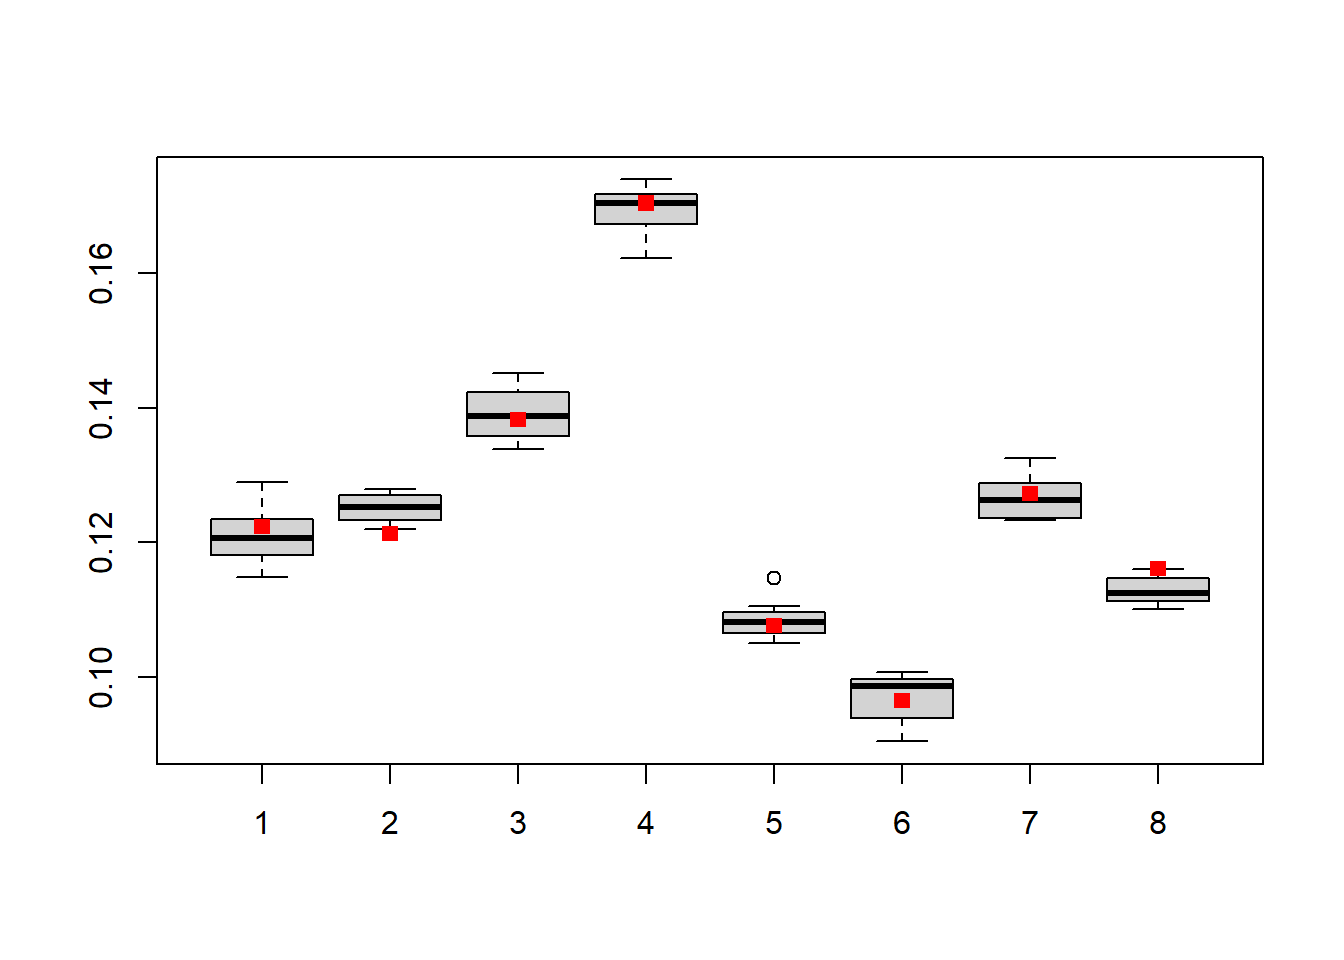
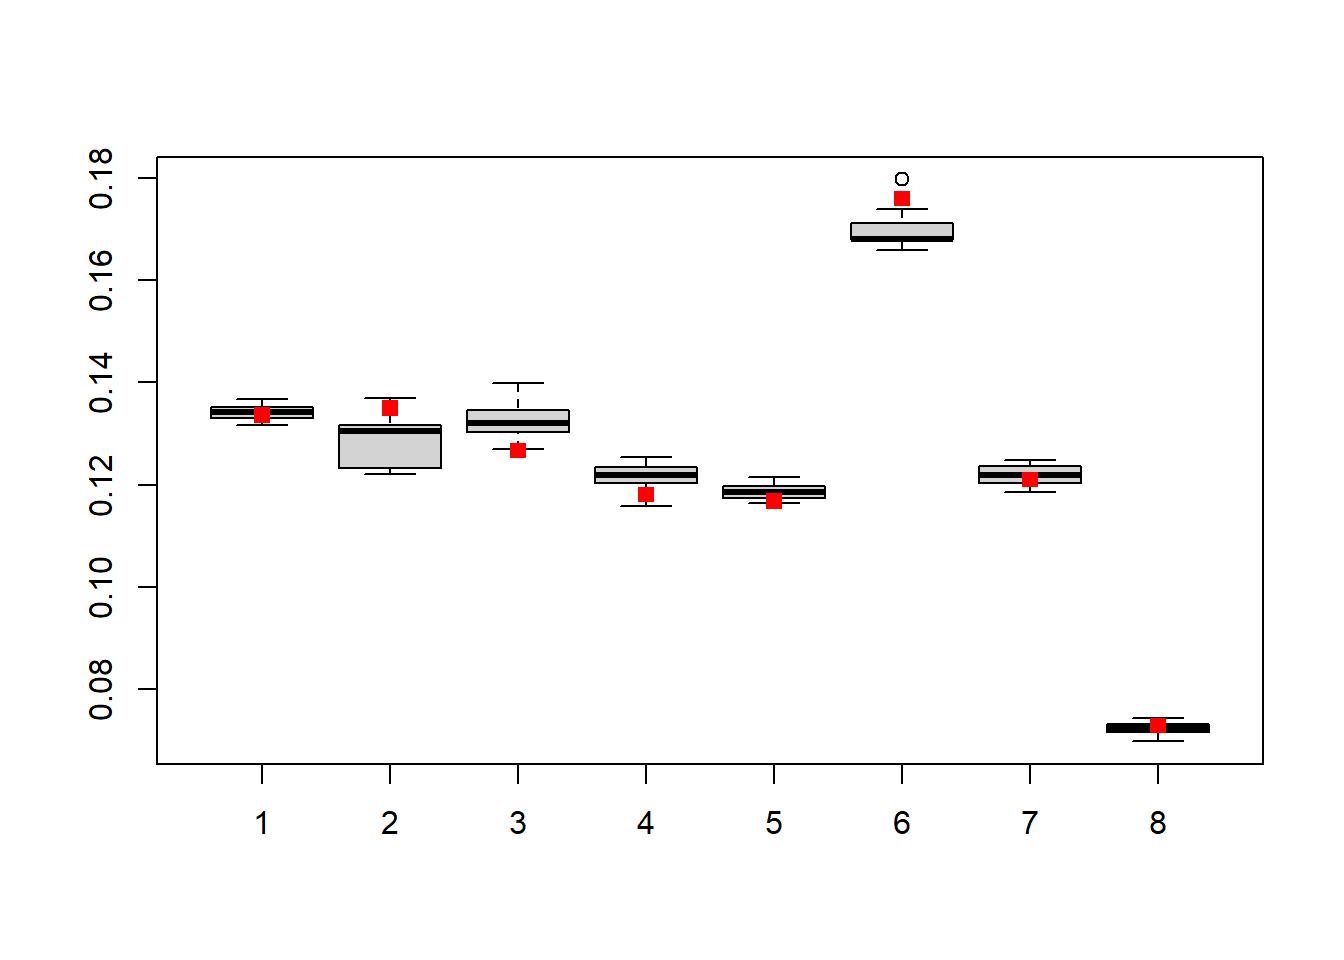
update post

diff --git a/docs/notes/2023-02-09-ST779-Computer-Assignment-1/index.html b/docs/notes/2023-02-09-ST779-Computer-Assignment-1/index.html
@@ -225,43 +225,18 @@ code span.wa { color: #60a0b0; font-weight: bold; font-style: italic; } /* Warni
 
 </header>
 
-<div class="cell">
-<details>
-<summary>Code</summary>
-<div class="sourceCode cell-code" id="cb1"><pre class="sourceCode r code-with-copy"><code class="sourceCode r"><span id="cb1-1"><a href="#cb1-1" aria-hidden="true" tabindex="-1"></a><span class="fu">library</span>(expm)</span></code><button title="Copy to Clipboard" class="code-copy-button"><i class="bi"></i></button></pre></div>
-</details>
-<div class="cell-output cell-output-stderr">
-<pre><code>Loading required package: Matrix</code></pre>
-</div>
-<div class="cell-output cell-output-stderr">
-<pre><code>
-Attaching package: 'expm'</code></pre>
-</div>
-<div class="cell-output cell-output-stderr">
-<pre><code>The following object is masked from 'package:Matrix':
-
-    expm</code></pre>
-</div>
-<details>
-<summary>Code</summary>
-<div class="sourceCode cell-code" id="cb5"><pre class="sourceCode r code-with-copy"><code class="sourceCode r"><span id="cb5-1"><a href="#cb5-1" aria-hidden="true" tabindex="-1"></a><span class="fu">library</span>(MASS)</span></code><button title="Copy to Clipboard" class="code-copy-button"><i class="bi"></i></button></pre></div>
-</details>
-</div>
 <section id="step-1" class="level2">
 <h2 class="anchored" data-anchor-id="step-1">Step 1</h2>
 <p>Create a vector of transition probabilities from a single state.</p>
 <div class="cell">
-<details>
-<summary>Code</summary>
-<div class="sourceCode cell-code" id="cb6"><pre class="sourceCode r code-with-copy"><code class="sourceCode r"><span id="cb6-1"><a href="#cb6-1" aria-hidden="true" tabindex="-1"></a>num.states <span class="ot">&lt;-</span> <span class="dv">8</span></span>
-<span id="cb6-2"><a href="#cb6-2" aria-hidden="true" tabindex="-1"></a></span>
-<span id="cb6-3"><a href="#cb6-3" aria-hidden="true" tabindex="-1"></a>t1 <span class="ot">&lt;-</span> <span class="fu">runif</span>(num.states)</span>
-<span id="cb6-4"><a href="#cb6-4" aria-hidden="true" tabindex="-1"></a>t1 <span class="ot">&lt;-</span> t1<span class="sc">/</span><span class="fu">sum</span>(t1)</span>
-<span id="cb6-5"><a href="#cb6-5" aria-hidden="true" tabindex="-1"></a></span>
-<span id="cb6-6"><a href="#cb6-6" aria-hidden="true" tabindex="-1"></a><span class="fu">round</span>(t1,<span class="dv">2</span>)</span></code><button title="Copy to Clipboard" class="code-copy-button"><i class="bi"></i></button></pre></div>
-</details>
+<div class="sourceCode cell-code" id="cb1"><pre class="sourceCode r code-with-copy"><code class="sourceCode r"><span id="cb1-1"><a href="#cb1-1" aria-hidden="true" tabindex="-1"></a>num.states <span class="ot">&lt;-</span> <span class="dv">8</span></span>
+<span id="cb1-2"><a href="#cb1-2" aria-hidden="true" tabindex="-1"></a></span>
+<span id="cb1-3"><a href="#cb1-3" aria-hidden="true" tabindex="-1"></a>t1 <span class="ot">&lt;-</span> <span class="fu">runif</span>(num.states)</span>
+<span id="cb1-4"><a href="#cb1-4" aria-hidden="true" tabindex="-1"></a>t1 <span class="ot">&lt;-</span> t1<span class="sc">/</span><span class="fu">sum</span>(t1)</span>
+<span id="cb1-5"><a href="#cb1-5" aria-hidden="true" tabindex="-1"></a></span>
+<span id="cb1-6"><a href="#cb1-6" aria-hidden="true" tabindex="-1"></a><span class="fu">round</span>(t1,<span class="dv">2</span>)</span></code><button title="Copy to Clipboard" class="code-copy-button"><i class="bi"></i></button></pre></div>
 <div class="cell-output cell-output-stdout">
-<pre><code>[1] 0.09 0.29 0.01 0.04 0.16 0.10 0.30 0.01</code></pre>
+<pre><code>[1] 0.06 0.04 0.15 0.18 0.22 0.02 0.24 0.11</code></pre>
 </div>
 </div>
 </section>
@@ -269,34 +244,49 @@ Attaching package: 'expm'</code></pre>
 <h2 class="anchored" data-anchor-id="step-2">Step 2</h2>
 <p>Create the entire transition matrix. Note this actually throws out the first vector we created in step 1, but fulfills the overall spirit of the exercise.</p>
 <div class="cell">
-<details>
-<summary>Code</summary>
-<div class="sourceCode cell-code" id="cb8"><pre class="sourceCode r code-with-copy"><code class="sourceCode r"><span id="cb8-1"><a href="#cb8-1" aria-hidden="true" tabindex="-1"></a>P <span class="ot">&lt;-</span> <span class="fu">matrix</span>(<span class="fu">runif</span>(num.states<span class="sc">^</span><span class="dv">2</span>), <span class="at">nrow =</span> num.states)</span>
-<span id="cb8-2"><a href="#cb8-2" aria-hidden="true" tabindex="-1"></a>P <span class="ot">&lt;-</span> P<span class="sc">/</span><span class="fu">rowSums</span>(P)</span></code><button title="Copy to Clipboard" class="code-copy-button"><i class="bi"></i></button></pre></div>
-</details>
+<div class="sourceCode cell-code" id="cb3"><pre class="sourceCode r code-with-copy"><code class="sourceCode r"><span id="cb3-1"><a href="#cb3-1" aria-hidden="true" tabindex="-1"></a>P <span class="ot">&lt;-</span> <span class="fu">matrix</span>(<span class="fu">runif</span>(num.states<span class="sc">^</span><span class="dv">2</span>), <span class="at">nrow =</span> num.states)</span>
+<span id="cb3-2"><a href="#cb3-2" aria-hidden="true" tabindex="-1"></a>P <span class="ot">&lt;-</span> P<span class="sc">/</span><span class="fu">rowSums</span>(P)</span>
+<span id="cb3-3"><a href="#cb3-3" aria-hidden="true" tabindex="-1"></a>P</span></code><button title="Copy to Clipboard" class="code-copy-button"><i class="bi"></i></button></pre></div>
+<div class="cell-output cell-output-stdout">
+<pre><code>           [,1]       [,2]       [,3]       [,4]       [,5]      [,6]
+[1,] 0.15279956 0.08106097 0.02846540 0.19820026 0.14034309 0.1574157
+[2,] 0.07368760 0.19007957 0.07653996 0.18723220 0.09766589 0.1194714
+[3,] 0.23803358 0.09339140 0.17106645 0.01457441 0.13617882 0.1954861
+[4,] 0.13141974 0.16660896 0.13884276 0.16781732 0.12714157 0.1488171
+[5,] 0.17946043 0.09418309 0.17649337 0.07903336 0.13153146 0.2187459
+[6,] 0.02376758 0.16818856 0.22344578 0.07212708 0.01807736 0.2201051
+[7,] 0.15057234 0.11368307 0.10795242 0.09601255 0.21064836 0.1249091
+[8,] 0.15395818 0.10185640 0.09376380 0.19794767 0.12118873 0.1806934
+           [,7]        [,8]
+[1,] 0.04336023 0.198354770
+[2,] 0.14231665 0.113006700
+[3,] 0.12539239 0.025876811
+[4,] 0.11100222 0.008350338
+[5,] 0.11723433 0.003318034
+[6,] 0.22313210 0.051156434
+[7,] 0.04482035 0.151401804
+[8,] 0.14698518 0.003606669</code></pre>
+</div>
 </div>
 </section>
 <section id="step-3" class="level2">
 <h2 class="anchored" data-anchor-id="step-3">Step 3</h2>
 <p>Simulate the Markov chain with initial state <span class="math inline">\(X_0 = 1\)</span>. Store the proportion of time the chain was in state <span class="math inline">\(j\)</span>, <span class="math inline">\(j=1,\dots,8\)</span>.</p>
 <div class="cell">
-<details>
-<summary>Code</summary>
-<div class="sourceCode cell-code" id="cb9"><pre class="sourceCode r code-with-copy"><code class="sourceCode r"><span id="cb9-1"><a href="#cb9-1" aria-hidden="true" tabindex="-1"></a>current.state <span class="ot">&lt;-</span> <span class="dv">1</span></span>
-<span id="cb9-2"><a href="#cb9-2" aria-hidden="true" tabindex="-1"></a>num.steps <span class="ot">&lt;-</span> <span class="dv">10000</span></span>
-<span id="cb9-3"><a href="#cb9-3" aria-hidden="true" tabindex="-1"></a>visits1 <span class="ot">&lt;-</span> <span class="fu">rep</span>(<span class="dv">0</span>, num.states)</span>
-<span id="cb9-4"><a href="#cb9-4" aria-hidden="true" tabindex="-1"></a></span>
-<span id="cb9-5"><a href="#cb9-5" aria-hidden="true" tabindex="-1"></a><span class="cf">for</span> (i <span class="cf">in</span> <span class="dv">1</span><span class="sc">:</span>num.steps){</span>
-<span id="cb9-6"><a href="#cb9-6" aria-hidden="true" tabindex="-1"></a></span>
-<span id="cb9-7"><a href="#cb9-7" aria-hidden="true" tabindex="-1"></a>  visits1[current.state] <span class="ot">&lt;-</span> visits1[current.state] <span class="sc">+</span> <span class="dv">1</span></span>
-<span id="cb9-8"><a href="#cb9-8" aria-hidden="true" tabindex="-1"></a>  current.state <span class="ot">&lt;-</span> <span class="fu">sample</span>(<span class="dv">1</span><span class="sc">:</span>num.states, <span class="dv">1</span>, <span class="at">prob =</span> P[current.state,])</span>
-<span id="cb9-9"><a href="#cb9-9" aria-hidden="true" tabindex="-1"></a>    </span>
-<span id="cb9-10"><a href="#cb9-10" aria-hidden="true" tabindex="-1"></a>}</span>
-<span id="cb9-11"><a href="#cb9-11" aria-hidden="true" tabindex="-1"></a></span>
-<span id="cb9-12"><a href="#cb9-12" aria-hidden="true" tabindex="-1"></a><span class="fu">round</span>(visits1<span class="sc">/</span><span class="fu">sum</span>(visits1),<span class="dv">3</span>)</span></code><button title="Copy to Clipboard" class="code-copy-button"><i class="bi"></i></button></pre></div>
-</details>
+<div class="sourceCode cell-code" id="cb5"><pre class="sourceCode r code-with-copy"><code class="sourceCode r"><span id="cb5-1"><a href="#cb5-1" aria-hidden="true" tabindex="-1"></a>current.state <span class="ot">&lt;-</span> <span class="dv">1</span></span>
+<span id="cb5-2"><a href="#cb5-2" aria-hidden="true" tabindex="-1"></a>num.steps <span class="ot">&lt;-</span> <span class="dv">10000</span></span>
+<span id="cb5-3"><a href="#cb5-3" aria-hidden="true" tabindex="-1"></a>visits1 <span class="ot">&lt;-</span> <span class="fu">rep</span>(<span class="dv">0</span>, num.states)</span>
+<span id="cb5-4"><a href="#cb5-4" aria-hidden="true" tabindex="-1"></a></span>
+<span id="cb5-5"><a href="#cb5-5" aria-hidden="true" tabindex="-1"></a><span class="cf">for</span> (i <span class="cf">in</span> <span class="dv">1</span><span class="sc">:</span>num.steps){</span>
+<span id="cb5-6"><a href="#cb5-6" aria-hidden="true" tabindex="-1"></a></span>
+<span id="cb5-7"><a href="#cb5-7" aria-hidden="true" tabindex="-1"></a>  visits1[current.state] <span class="ot">&lt;-</span> visits1[current.state] <span class="sc">+</span> <span class="dv">1</span></span>
+<span id="cb5-8"><a href="#cb5-8" aria-hidden="true" tabindex="-1"></a>  current.state <span class="ot">&lt;-</span> <span class="fu">sample</span>(<span class="dv">1</span><span class="sc">:</span>num.states, <span class="dv">1</span>, <span class="at">prob =</span> P[current.state,])</span>
+<span id="cb5-9"><a href="#cb5-9" aria-hidden="true" tabindex="-1"></a>    </span>
+<span id="cb5-10"><a href="#cb5-10" aria-hidden="true" tabindex="-1"></a>}</span>
+<span id="cb5-11"><a href="#cb5-11" aria-hidden="true" tabindex="-1"></a></span>
+<span id="cb5-12"><a href="#cb5-12" aria-hidden="true" tabindex="-1"></a><span class="fu">round</span>(visits1<span class="sc">/</span><span class="fu">sum</span>(visits1),<span class="dv">3</span>)</span></code><button title="Copy to Clipboard" class="code-copy-button"><i class="bi"></i></button></pre></div>
 <div class="cell-output cell-output-stdout">
-<pre><code>[1] 0.122 0.121 0.138 0.170 0.108 0.096 0.127 0.116</code></pre>
+<pre><code>[1] 0.134 0.135 0.127 0.118 0.117 0.176 0.121 0.073</code></pre>
 </div>
 </div>
 </section>
@@ -304,35 +294,31 @@ Attaching package: 'expm'</code></pre>
 <h2 class="anchored" data-anchor-id="step-4">Step 4</h2>
 <p>Simulate the Markov chain with initial states <span class="math inline">\(X_0 = 2,\dots,8\)</span>. For each initial state, store the proportion of time the chain was in state <span class="math inline">\(j\)</span>, <span class="math inline">\(j=1,\dots,8\)</span>.</p>
 <div class="cell">
-<details>
-<summary>Code</summary>
-<div class="sourceCode cell-code" id="cb11"><pre class="sourceCode r code-with-copy"><code class="sourceCode r"><span id="cb11-1"><a href="#cb11-1" aria-hidden="true" tabindex="-1"></a>visits2    <span class="ot">&lt;-</span> <span class="fu">matrix</span>(<span class="dv">0</span>, <span class="at">nrow=</span>num.states, <span class="at">ncol=</span>num.states)</span>
-<span id="cb11-2"><a href="#cb11-2" aria-hidden="true" tabindex="-1"></a>num.steps <span class="ot">&lt;-</span> <span class="dv">10000</span></span>
-<span id="cb11-3"><a href="#cb11-3" aria-hidden="true" tabindex="-1"></a></span>
-<span id="cb11-4"><a href="#cb11-4" aria-hidden="true" tabindex="-1"></a><span class="cf">for</span> (j <span class="cf">in</span> <span class="dv">1</span><span class="sc">:</span>num.states){</span>
-<span id="cb11-5"><a href="#cb11-5" aria-hidden="true" tabindex="-1"></a>  current.state <span class="ot">&lt;-</span> j</span>
-<span id="cb11-6"><a href="#cb11-6" aria-hidden="true" tabindex="-1"></a>  </span>
-<span id="cb11-7"><a href="#cb11-7" aria-hidden="true" tabindex="-1"></a>  <span class="cf">for</span> (i <span class="cf">in</span> <span class="dv">1</span><span class="sc">:</span>num.steps){</span>
-<span id="cb11-8"><a href="#cb11-8" aria-hidden="true" tabindex="-1"></a></span>
-<span id="cb11-9"><a href="#cb11-9" aria-hidden="true" tabindex="-1"></a>    visits2[j, current.state] <span class="ot">&lt;-</span> visits2[j, current.state] <span class="sc">+</span> <span class="dv">1</span></span>
-<span id="cb11-10"><a href="#cb11-10" aria-hidden="true" tabindex="-1"></a>    current.state <span class="ot">&lt;-</span> <span class="fu">sample</span>(<span class="dv">1</span><span class="sc">:</span>num.states, <span class="dv">1</span>, <span class="at">prob =</span> P[current.state,])</span>
-<span id="cb11-11"><a href="#cb11-11" aria-hidden="true" tabindex="-1"></a>    </span>
-<span id="cb11-12"><a href="#cb11-12" aria-hidden="true" tabindex="-1"></a>  }</span>
-<span id="cb11-13"><a href="#cb11-13" aria-hidden="true" tabindex="-1"></a>  </span>
-<span id="cb11-14"><a href="#cb11-14" aria-hidden="true" tabindex="-1"></a>}</span>
-<span id="cb11-15"><a href="#cb11-15" aria-hidden="true" tabindex="-1"></a></span>
-<span id="cb11-16"><a href="#cb11-16" aria-hidden="true" tabindex="-1"></a><span class="fu">round</span>(visits2<span class="sc">/</span><span class="fu">rowSums</span>(visits2),<span class="dv">3</span>)</span></code><button title="Copy to Clipboard" class="code-copy-button"><i class="bi"></i></button></pre></div>
-</details>
+<div class="sourceCode cell-code" id="cb7"><pre class="sourceCode r code-with-copy"><code class="sourceCode r"><span id="cb7-1"><a href="#cb7-1" aria-hidden="true" tabindex="-1"></a>visits2    <span class="ot">&lt;-</span> <span class="fu">matrix</span>(<span class="dv">0</span>, <span class="at">nrow=</span>num.states<span class="dv">-1</span>, <span class="at">ncol=</span>num.states)</span>
+<span id="cb7-2"><a href="#cb7-2" aria-hidden="true" tabindex="-1"></a>num.steps <span class="ot">&lt;-</span> <span class="dv">10000</span></span>
+<span id="cb7-3"><a href="#cb7-3" aria-hidden="true" tabindex="-1"></a></span>
+<span id="cb7-4"><a href="#cb7-4" aria-hidden="true" tabindex="-1"></a><span class="cf">for</span> (j <span class="cf">in</span> <span class="dv">1</span><span class="sc">:</span>(num.states<span class="dv">-1</span>)){</span>
+<span id="cb7-5"><a href="#cb7-5" aria-hidden="true" tabindex="-1"></a>  current.state <span class="ot">&lt;-</span> j</span>
+<span id="cb7-6"><a href="#cb7-6" aria-hidden="true" tabindex="-1"></a>  </span>
+<span id="cb7-7"><a href="#cb7-7" aria-hidden="true" tabindex="-1"></a>  <span class="cf">for</span> (i <span class="cf">in</span> <span class="dv">1</span><span class="sc">:</span>num.steps){</span>
+<span id="cb7-8"><a href="#cb7-8" aria-hidden="true" tabindex="-1"></a></span>
+<span id="cb7-9"><a href="#cb7-9" aria-hidden="true" tabindex="-1"></a>    visits2[j, current.state] <span class="ot">&lt;-</span> visits2[j, current.state] <span class="sc">+</span> <span class="dv">1</span></span>
+<span id="cb7-10"><a href="#cb7-10" aria-hidden="true" tabindex="-1"></a>    current.state <span class="ot">&lt;-</span> <span class="fu">sample</span>(<span class="dv">1</span><span class="sc">:</span>num.states, <span class="dv">1</span>, <span class="at">prob =</span> P[current.state,])</span>
+<span id="cb7-11"><a href="#cb7-11" aria-hidden="true" tabindex="-1"></a>    </span>
+<span id="cb7-12"><a href="#cb7-12" aria-hidden="true" tabindex="-1"></a>  }</span>
+<span id="cb7-13"><a href="#cb7-13" aria-hidden="true" tabindex="-1"></a>  </span>
+<span id="cb7-14"><a href="#cb7-14" aria-hidden="true" tabindex="-1"></a>}</span>
+<span id="cb7-15"><a href="#cb7-15" aria-hidden="true" tabindex="-1"></a></span>
+<span id="cb7-16"><a href="#cb7-16" aria-hidden="true" tabindex="-1"></a><span class="fu">round</span>(visits2<span class="sc">/</span><span class="fu">rowSums</span>(visits2),<span class="dv">3</span>)</span></code><button title="Copy to Clipboard" class="code-copy-button"><i class="bi"></i></button></pre></div>
 <div class="cell-output cell-output-stdout">
 <pre><code>      [,1]  [,2]  [,3]  [,4]  [,5]  [,6]  [,7]  [,8]
-[1,] 0.117 0.126 0.144 0.162 0.115 0.099 0.123 0.113
-[2,] 0.129 0.128 0.139 0.166 0.106 0.093 0.128 0.111
-[3,] 0.121 0.122 0.141 0.168 0.107 0.100 0.128 0.112
-[4,] 0.120 0.125 0.137 0.174 0.105 0.100 0.124 0.116
-[5,] 0.115 0.125 0.145 0.171 0.110 0.090 0.132 0.110
-[6,] 0.119 0.128 0.135 0.172 0.109 0.098 0.125 0.114
-[7,] 0.123 0.122 0.134 0.171 0.108 0.101 0.130 0.112
-[8,] 0.124 0.125 0.138 0.170 0.109 0.095 0.124 0.115</code></pre>
+[1,] 0.134 0.124 0.134 0.122 0.118 0.174 0.122 0.072
+[2,] 0.133 0.123 0.140 0.116 0.117 0.180 0.119 0.073
+[3,] 0.134 0.131 0.130 0.125 0.116 0.168 0.125 0.070
+[4,] 0.137 0.130 0.135 0.121 0.120 0.168 0.119 0.071
+[5,] 0.133 0.132 0.131 0.124 0.118 0.166 0.122 0.073
+[6,] 0.136 0.122 0.132 0.123 0.122 0.169 0.123 0.074
+[7,] 0.132 0.137 0.127 0.120 0.120 0.168 0.124 0.072</code></pre>
 </div>
 </div>
 </section>
@@ -340,11 +326,8 @@ Attaching package: 'expm'</code></pre>
 <h2 class="anchored" data-anchor-id="step-5">Step 5</h2>
 <p>Compare the proportion vectors from questions 3 and 4.</p>
 <div class="cell">
-<details>
-<summary>Code</summary>
-<div class="sourceCode cell-code" id="cb13"><pre class="sourceCode r code-with-copy"><code class="sourceCode r"><span id="cb13-1"><a href="#cb13-1" aria-hidden="true" tabindex="-1"></a><span class="fu">boxplot</span>(visits2<span class="sc">/</span><span class="fu">rowSums</span>(visits2))</span>
-<span id="cb13-2"><a href="#cb13-2" aria-hidden="true" tabindex="-1"></a><span class="fu">points</span>(visits1<span class="sc">/</span><span class="fu">sum</span>(visits1), <span class="at">col =</span> <span class="st">"red"</span>, <span class="at">cex =</span> <span class="dv">8</span>, <span class="at">pch =</span> <span class="st">"."</span>)</span></code><button title="Copy to Clipboard" class="code-copy-button"><i class="bi"></i></button></pre></div>
-</details>
+<div class="sourceCode cell-code" id="cb9"><pre class="sourceCode r code-with-copy"><code class="sourceCode r"><span id="cb9-1"><a href="#cb9-1" aria-hidden="true" tabindex="-1"></a><span class="fu">boxplot</span>(visits2<span class="sc">/</span><span class="fu">rowSums</span>(visits2))</span>
+<span id="cb9-2"><a href="#cb9-2" aria-hidden="true" tabindex="-1"></a><span class="fu">points</span>(visits1<span class="sc">/</span><span class="fu">sum</span>(visits1), <span class="at">col =</span> <span class="st">"red"</span>, <span class="at">cex =</span> <span class="dv">8</span>, <span class="at">pch =</span> <span class="st">"."</span>)</span></code><button title="Copy to Clipboard" class="code-copy-button"><i class="bi"></i></button></pre></div>
 <div class="cell-output-display">
 <p><img src="index_files/figure-html/unnamed-chunk-6-1.png" class="img-fluid" width="672"></p>
 </div>
@@ -354,29 +337,26 @@ Attaching package: 'expm'</code></pre>
 <h2 class="anchored" data-anchor-id="step-6">Step 6</h2>
 <p>Compute the <span class="math inline">\(P^{100}\)</span> matrix multiplication. Are its rows approx equal? How do they compare the row vectors from step 5?</p>
 <div class="cell">
-<details>
-<summary>Code</summary>
-<div class="sourceCode cell-code" id="cb14"><pre class="sourceCode r code-with-copy"><code class="sourceCode r"><span id="cb14-1"><a href="#cb14-1" aria-hidden="true" tabindex="-1"></a>P <span class="sc">%^%</span> <span class="dv">100</span></span></code><button title="Copy to Clipboard" class="code-copy-button"><i class="bi"></i></button></pre></div>
-</details>
+<div class="sourceCode cell-code" id="cb10"><pre class="sourceCode r code-with-copy"><code class="sourceCode r"><span id="cb10-1"><a href="#cb10-1" aria-hidden="true" tabindex="-1"></a>P <span class="sc">%^%</span> <span class="dv">100</span></span></code><button title="Copy to Clipboard" class="code-copy-button"><i class="bi"></i></button></pre></div>
 <div class="cell-output cell-output-stdout">
-<pre><code>          [,1]      [,2]      [,3]      [,4]      [,5]       [,6]      [,7]
-[1,] 0.1231939 0.1237744 0.1390715 0.1689908 0.1086917 0.09600087 0.1270706
-[2,] 0.1231939 0.1237744 0.1390715 0.1689908 0.1086917 0.09600087 0.1270706
-[3,] 0.1231939 0.1237744 0.1390715 0.1689908 0.1086917 0.09600087 0.1270706
-[4,] 0.1231939 0.1237744 0.1390715 0.1689908 0.1086917 0.09600087 0.1270706
-[5,] 0.1231939 0.1237744 0.1390715 0.1689908 0.1086917 0.09600087 0.1270706
-[6,] 0.1231939 0.1237744 0.1390715 0.1689908 0.1086917 0.09600087 0.1270706
-[7,] 0.1231939 0.1237744 0.1390715 0.1689908 0.1086917 0.09600087 0.1270706
-[8,] 0.1231939 0.1237744 0.1390715 0.1689908 0.1086917 0.09600087 0.1270706
-          [,8]
-[1,] 0.1132063
-[2,] 0.1132063
-[3,] 0.1132063
-[4,] 0.1132063
-[5,] 0.1132063
-[6,] 0.1132063
-[7,] 0.1132063
-[8,] 0.1132063</code></pre>
+<pre><code>          [,1]      [,2]      [,3]      [,4]      [,5]      [,6]      [,7]
+[1,] 0.1320161 0.1291608 0.1324116 0.1205057 0.1178048 0.1722635 0.1225944
+[2,] 0.1320161 0.1291608 0.1324116 0.1205057 0.1178048 0.1722635 0.1225944
+[3,] 0.1320161 0.1291608 0.1324116 0.1205057 0.1178048 0.1722635 0.1225944
+[4,] 0.1320161 0.1291608 0.1324116 0.1205057 0.1178048 0.1722635 0.1225944
+[5,] 0.1320161 0.1291608 0.1324116 0.1205057 0.1178048 0.1722635 0.1225944
+[6,] 0.1320161 0.1291608 0.1324116 0.1205057 0.1178048 0.1722635 0.1225944
+[7,] 0.1320161 0.1291608 0.1324116 0.1205057 0.1178048 0.1722635 0.1225944
+[8,] 0.1320161 0.1291608 0.1324116 0.1205057 0.1178048 0.1722635 0.1225944
+           [,8]
+[1,] 0.07324315
+[2,] 0.07324315
+[3,] 0.07324315
+[4,] 0.07324315
+[5,] 0.07324315
+[6,] 0.07324315
+[7,] 0.07324315
+[8,] 0.07324315</code></pre>
 </div>
 </div>
 </section>
@@ -384,16 +364,13 @@ Attaching package: 'expm'</code></pre>
 <h2 class="anchored" data-anchor-id="step-7">Step 7</h2>
 <p>Solve the equation of stationarity <span class="math inline">\(\boldsymbol\mu = \boldsymbol\mu \mathbf{P}\)</span>. Is the solution nearly equal to that in step 6?</p>
 <div class="cell">
-<details>
-<summary>Code</summary>
-<div class="sourceCode cell-code" id="cb16"><pre class="sourceCode r code-with-copy"><code class="sourceCode r"><span id="cb16-1"><a href="#cb16-1" aria-hidden="true" tabindex="-1"></a>e    <span class="ot">&lt;-</span> <span class="fu">eigen</span>(P)</span>
-<span id="cb16-2"><a href="#cb16-2" aria-hidden="true" tabindex="-1"></a>lvec <span class="ot">&lt;-</span> <span class="fu">ginv</span>(e<span class="sc">$</span>vectors)</span>
-<span id="cb16-3"><a href="#cb16-3" aria-hidden="true" tabindex="-1"></a></span>
-<span id="cb16-4"><a href="#cb16-4" aria-hidden="true" tabindex="-1"></a><span class="fu">as.numeric</span>(lvec[<span class="dv">1</span>,]<span class="sc">/</span><span class="fu">sum</span>(lvec[<span class="dv">1</span>,]))</span></code><button title="Copy to Clipboard" class="code-copy-button"><i class="bi"></i></button></pre></div>
-</details>
+<div class="sourceCode cell-code" id="cb12"><pre class="sourceCode r code-with-copy"><code class="sourceCode r"><span id="cb12-1"><a href="#cb12-1" aria-hidden="true" tabindex="-1"></a>e    <span class="ot">&lt;-</span> <span class="fu">eigen</span>(P)</span>
+<span id="cb12-2"><a href="#cb12-2" aria-hidden="true" tabindex="-1"></a>lvec <span class="ot">&lt;-</span> MASS<span class="sc">::</span><span class="fu">ginv</span>(e<span class="sc">$</span>vectors)</span>
+<span id="cb12-3"><a href="#cb12-3" aria-hidden="true" tabindex="-1"></a></span>
+<span id="cb12-4"><a href="#cb12-4" aria-hidden="true" tabindex="-1"></a><span class="fu">as.numeric</span>(lvec[<span class="dv">1</span>,]<span class="sc">/</span><span class="fu">sum</span>(lvec[<span class="dv">1</span>,]))</span></code><button title="Copy to Clipboard" class="code-copy-button"><i class="bi"></i></button></pre></div>
 <div class="cell-output cell-output-stdout">
-<pre><code>[1] 0.12319390 0.12377437 0.13907153 0.16899081 0.10869168 0.09600087 0.12707056
-[8] 0.11320629</code></pre>
+<pre><code>[1] 0.13201608 0.12916077 0.13241161 0.12050573 0.11780475 0.17226347 0.12259444
+[8] 0.07324315</code></pre>
 </div>
 </div>
 </section>

diff --git a/docs/notes.html b/docs/notes.html
@@ -197,7 +197,7 @@ ul.task-list li input[type="checkbox"] {
 </tr>
 </thead>
 <tbody class="list">
-<tr data-index="0" data-categories="Stochastic Proccesses,ST 746" data-listing-file-modified-sort="1676003774863" data-listing-reading-time-sort="1.335" data-listing-title-sort="ST746 - Computer Assignment 1" data-listing-filename-sort="index.qmd">
+<tr data-index="0" data-categories="Stochastic Proccesses,ST 746" data-listing-file-modified-sort="1676003938089" data-listing-reading-time-sort="1.34" data-listing-title-sort="ST746 - Computer Assignment 1" data-listing-filename-sort="index.qmd">
 <td class="listing-title">
 <a href="./notes/2023-02-09-ST779-Computer-Assignment-1/index.html" class="title">ST746 - Computer Assignment 1</a>
 </td>
